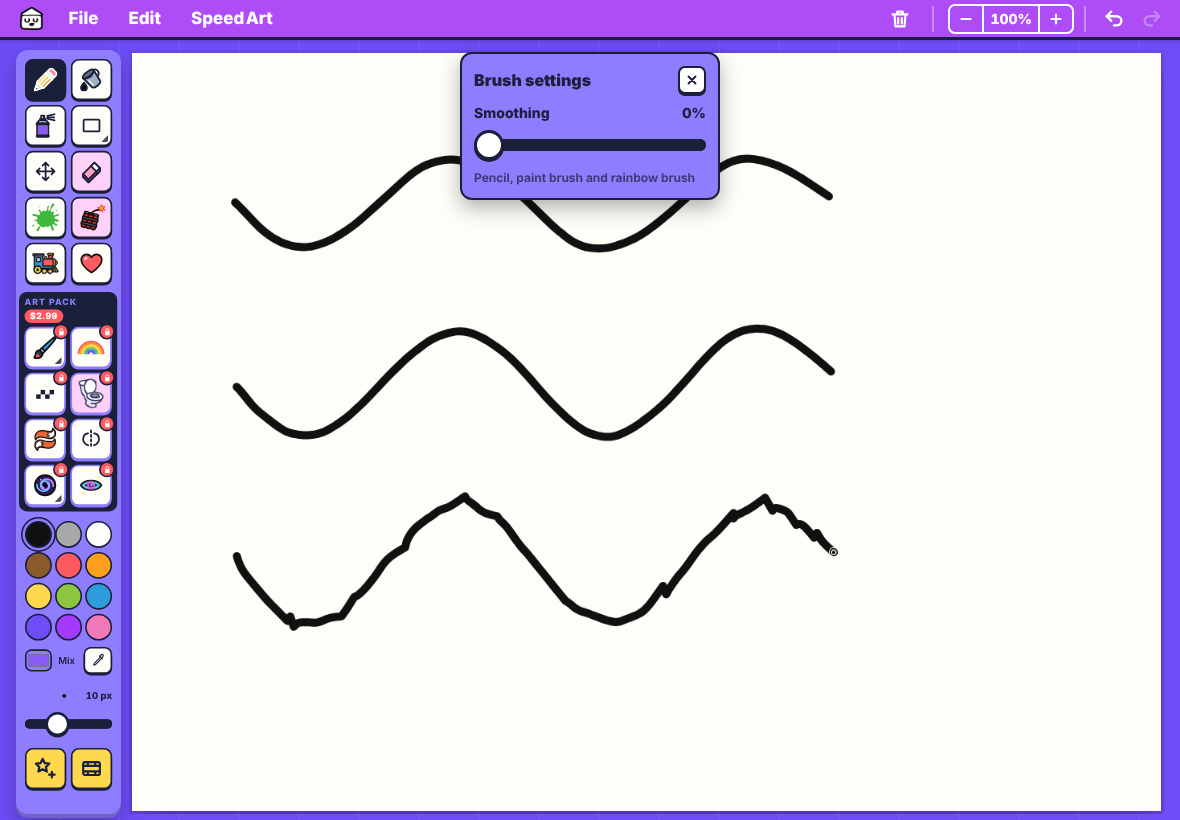
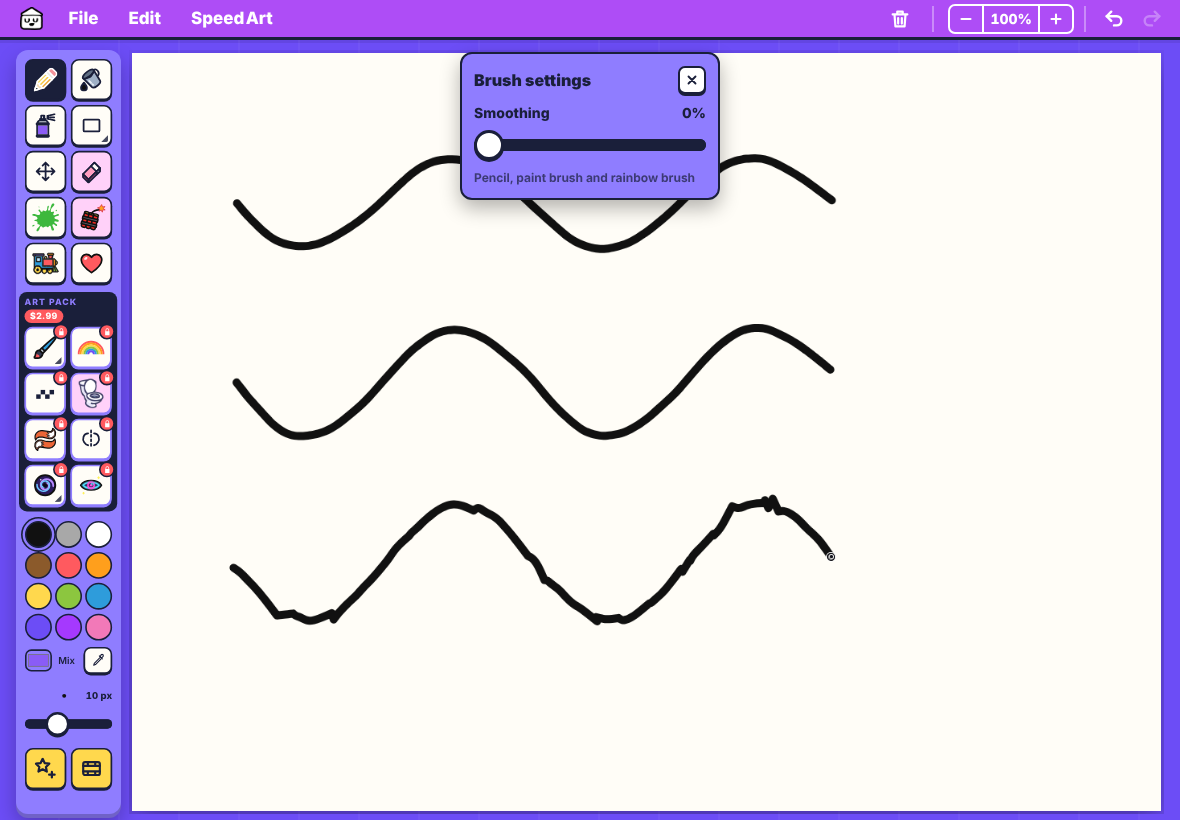
Paint brush: fine grainy dry-brush texture (solid middle, speckled edges), also in speed art
Claude-Session: https://claude.ai/code/session_01QZ4DRegBmAdsTvPSvVEQXu

diff --git a/doodle-clubhouse-app/www/index.html b/doodle-clubhouse-app/www/index.html
@@ -3973,6 +3973,47 @@
     }
     seg(prev, pts[pts.length - 1]);
   }
+  // paint brush texture: a dry, grainy bristle look - solid in the middle, speckled toward the edges.
+  // Two fine grain tiles (made once, at full drawing resolution) bite little flecks out of the stroke.
+  const grainTiles = {};
+  function grainTile(kind){
+    if (grainTiles[kind]) return grainTiles[kind];
+    const S = 384, t = mk(S, S), g = t.getContext('2d');
+    let seed = kind === 'rim' ? 7 : 31; const R = () => { seed = (seed * 16807) % 2147483647; return seed / 2147483647; };
+    const n = kind === 'rim' ? 26000 : 5200;
+    g.lineCap = 'round';
+    for (let i = 0; i < n; i++){
+      const x = R() * S, y = R() * S, a = R() * Math.PI, L = .8 + R() * (kind === 'rim' ? 4.5 : 3), lw = .6 + R() * 1.1;
+      g.globalAlpha = kind === 'rim' ? .45 + R() * .55 : .35 + R() * .5; g.lineWidth = lw; g.strokeStyle = '#000';
+      const dx = Math.cos(a) * L / 2, dy = Math.sin(a) * L / 2;
+      for (const ox of [0, -S, S]) for (const oy of [0, -S, S]){
+        if ((ox && x > 8 && x < S - 8) || (oy && y > 8 && y < S - 8)) continue;
+        g.beginPath(); g.moveTo(x - dx + ox, y - dy + oy); g.lineTo(x + dx + ox, y + dy + oy); g.stroke();
+      }
+    }
+    return grainTiles[kind] = t;
+  }
+  const texK = [null, null];
+  function brushTexDraw(g, pts, w, rb){
+    const cw = g.canvas.width, ch = g.canvas.height;
+    let x0 = 1e9, y0 = 1e9, x1 = -1e9, y1 = -1e9; for (const q of pts){ if (q.x < x0) x0 = q.x; if (q.y < y0) y0 = q.y; if (q.x > x1) x1 = q.x; if (q.y > y1) y1 = q.y; }
+    const pad = w * 1.6 + 4; x0 = Math.max(0, Math.floor(x0 - pad)); y0 = Math.max(0, Math.floor(y0 - pad)); x1 = Math.min(cw, Math.ceil(x1 + pad)); y1 = Math.min(ch, Math.ceil(y1 + pad));
+    if (x1 <= x0 || y1 <= y0) return;
+    const layer = (i, width, kind) => {
+      let k = texK[i]; if (!k || k.width !== cw || k.height !== ch){ k = texK[i] = mk(cw, ch); }
+      const kg = k.getContext('2d'); kg.setTransform(1, 0, 0, 1, 0, 0); kg.globalAlpha = 1; kg.globalCompositeOperation = 'source-over'; kg.clearRect(x0, y0, x1 - x0, y1 - y0);
+      kg.lineCap = 'round'; kg.lineJoin = 'round'; kg.strokeStyle = g.strokeStyle;
+      kg.save(); kg.beginPath(); kg.rect(x0, y0, x1 - x0, y1 - y0); kg.clip(); pencilDraw(kg, pts, width, rb); kg.restore();
+      kg.globalCompositeOperation = 'destination-out'; kg.fillStyle = kg.createPattern(grainTile(kind), 'repeat'); kg.fillRect(x0, y0, x1 - x0, y1 - y0);
+      kg.globalCompositeOperation = 'source-over';
+      return k;
+    };
+    const a = layer(0, w, 'rim'), b = layer(1, w * .6, 'core');
+    g.save(); g.globalAlpha = 1;
+    g.drawImage(a, x0, y0, x1 - x0, y1 - y0, x0, y0, x1 - x0, y1 - y0);
+    g.drawImage(b, x0, y0, x1 - x0, y1 - y0, x0, y0, x1 - x0, y1 - y0);
+    g.restore();
+  }
   function pencilInk(g){
     g.lineCap = 'round'; g.lineJoin = 'round'; g.lineWidth = size; g.strokeStyle = color;
     g.globalAlpha = 1; g.globalCompositeOperation = 'source-over';
@@ -3980,7 +4021,7 @@
   function pencilRender(){
     pencilRaf = 0; const st = pencilS; if (!st) return;
     if (live.width !== W || live.height !== H){ live.width = W; live.height = H; }
-    lctx.clearRect(0, 0, W, H); pencilInk(lctx); pencilDraw(lctx, st.kind === 'brush' ? brushTaper(st.pts) : st.pts, st.base, st.rb);
+    lctx.clearRect(0, 0, W, H); pencilInk(lctx); if (st.kind === 'brush') brushTexDraw(lctx, brushTaper(st.pts), st.base, st.rb); else pencilDraw(lctx, st.pts, st.base, st.rb);
   }
   let pencilSnd = null, pencilT = 0, pencilDir = null;
   // pencil: a steady, even line. With the Apple Pencil (and "lock width" off) it varies only a little with pressure.
@@ -4089,8 +4130,8 @@
       if ([...st.pts, st.raw].every(q => Math.hypot(q.x - o.x, q.y - o.y) < far)){
         const k = st.kind === 'brush' ? (widthLocked ? 1 : (st.raw.pen ? .45 + Math.min(1, st.raw.p || .5) * .9 : 1)) : (o.k || 1);
         st.pts = [{ x: o.x - .4, y: o.y, k }, { x: o.x + .4, y: o.y, k }];
-        pencilInk(ctx); pencilDraw(ctx, st.pts, st.base, st.rb);
-        if (speedStroke){ const L = Math.max(W, H); speedStroke.vec = { pts: st.pts.map(q => [q.x / W, q.y / H, q.k || 1]), col: color, w: st.base / L, rb: st.rb ? { h0: st.rb.h0, rate: st.rb.rate * W } : null }; }
+        pencilInk(ctx); (st.kind === 'brush' ? brushTexDraw : pencilDraw)(ctx, st.pts, st.base, st.rb);
+        if (speedStroke){ const L = Math.max(W, H); speedStroke.vec = { pts: st.pts.map(q => [q.x / W, q.y / H, q.k || 1]), col: color, w: st.base / L, br: st.kind === 'brush' ? 1 : 0, rb: st.rb ? { h0: st.rb.h0, rate: st.rb.rate * W } : null }; }
         return;
       }
     }
@@ -4101,10 +4142,10 @@
     // the brush tapers off as you lift, like a real calligraphy stroke
     if (st.kind === 'brush'){ const n = st.pts.length; for (let i = Math.max(1, n - 9); i < n; i++) st.pts[i].k *= .05 + .95 * Math.sin((n - 1 - i) / 9 * Math.PI / 2); }
     if (st.kind === 'brush') st.pts = brushTaper(st.pts);
-    pencilInk(ctx); pencilDraw(ctx, st.pts, st.base, st.rb);
+    pencilInk(ctx); (st.kind === 'brush' ? brushTexDraw : pencilDraw)(ctx, st.pts, st.base, st.rb);
     if (st.rb){ let d = 0; const sp = pencilSoften(st.pts); for (let i = 1; i < sp.length; i++) d += Math.hypot(sp[i].x - sp[i - 1].x, sp[i].y - sp[i - 1].y); hue = (st.rb.h0 + d * .6) % 360; }   // next stroke carries on through the rainbow
     // speed art redraws this exact curve (no masking), so crossings never show bits of the line early
-    if (speedStroke){ const L = Math.max(W, H); speedStroke.vec = { pts: st.pts.map(q => [q.x / W, q.y / H, q.k || 1]), col: color, w: st.base / L, rb: st.rb ? { h0: st.rb.h0, rate: st.rb.rate * W } : null }; }
+    if (speedStroke){ const L = Math.max(W, H); speedStroke.vec = { pts: st.pts.map(q => [q.x / W, q.y / H, q.k || 1]), col: color, w: st.base / L, br: st.kind === 'brush' ? 1 : 0, rb: st.rb ? { h0: st.rb.h0, rate: st.rb.rate * W } : null }; }
   }
 
 
@@ -7814,7 +7855,7 @@
           const n = Math.min(stk.pts.length, left); left -= n;
           const v = stk.vec, m = Math.max(1, Math.min(v.pts.length, Math.round(n / stk.pts.length * v.pts.length)));
           out.strokeStyle = v.col;
-          pencilDraw(out, v.pts.slice(0, m).map(q => ({ x: q[0] * iw, y: q[1] * ih, k: q[2] || 1 })), Math.max(1, v.w * L2), v.rb ? { h0: v.rb.h0, rate: v.rb.rate / iw } : null);
+          (v.br ? brushTexDraw : pencilDraw)(out, v.pts.slice(0, m).map(q => ({ x: q[0] * iw, y: q[1] * ih, k: q[2] || 1 })), Math.max(1, v.w * L2), v.rb ? { h0: v.rb.h0, rate: v.rb.rate / iw } : null);
         }
         return scratch;
       }

diff --git a/index.html b/index.html
@@ -3973,6 +3973,47 @@
     }
     seg(prev, pts[pts.length - 1]);
   }
+  // paint brush texture: a dry, grainy bristle look - solid in the middle, speckled toward the edges.
+  // Two fine grain tiles (made once, at full drawing resolution) bite little flecks out of the stroke.
+  const grainTiles = {};
+  function grainTile(kind){
+    if (grainTiles[kind]) return grainTiles[kind];
+    const S = 384, t = mk(S, S), g = t.getContext('2d');
+    let seed = kind === 'rim' ? 7 : 31; const R = () => { seed = (seed * 16807) % 2147483647; return seed / 2147483647; };
+    const n = kind === 'rim' ? 26000 : 5200;
+    g.lineCap = 'round';
+    for (let i = 0; i < n; i++){
+      const x = R() * S, y = R() * S, a = R() * Math.PI, L = .8 + R() * (kind === 'rim' ? 4.5 : 3), lw = .6 + R() * 1.1;
+      g.globalAlpha = kind === 'rim' ? .45 + R() * .55 : .35 + R() * .5; g.lineWidth = lw; g.strokeStyle = '#000';
+      const dx = Math.cos(a) * L / 2, dy = Math.sin(a) * L / 2;
+      for (const ox of [0, -S, S]) for (const oy of [0, -S, S]){
+        if ((ox && x > 8 && x < S - 8) || (oy && y > 8 && y < S - 8)) continue;
+        g.beginPath(); g.moveTo(x - dx + ox, y - dy + oy); g.lineTo(x + dx + ox, y + dy + oy); g.stroke();
+      }
+    }
+    return grainTiles[kind] = t;
+  }
+  const texK = [null, null];
+  function brushTexDraw(g, pts, w, rb){
+    const cw = g.canvas.width, ch = g.canvas.height;
+    let x0 = 1e9, y0 = 1e9, x1 = -1e9, y1 = -1e9; for (const q of pts){ if (q.x < x0) x0 = q.x; if (q.y < y0) y0 = q.y; if (q.x > x1) x1 = q.x; if (q.y > y1) y1 = q.y; }
+    const pad = w * 1.6 + 4; x0 = Math.max(0, Math.floor(x0 - pad)); y0 = Math.max(0, Math.floor(y0 - pad)); x1 = Math.min(cw, Math.ceil(x1 + pad)); y1 = Math.min(ch, Math.ceil(y1 + pad));
+    if (x1 <= x0 || y1 <= y0) return;
+    const layer = (i, width, kind) => {
+      let k = texK[i]; if (!k || k.width !== cw || k.height !== ch){ k = texK[i] = mk(cw, ch); }
+      const kg = k.getContext('2d'); kg.setTransform(1, 0, 0, 1, 0, 0); kg.globalAlpha = 1; kg.globalCompositeOperation = 'source-over'; kg.clearRect(x0, y0, x1 - x0, y1 - y0);
+      kg.lineCap = 'round'; kg.lineJoin = 'round'; kg.strokeStyle = g.strokeStyle;
+      kg.save(); kg.beginPath(); kg.rect(x0, y0, x1 - x0, y1 - y0); kg.clip(); pencilDraw(kg, pts, width, rb); kg.restore();
+      kg.globalCompositeOperation = 'destination-out'; kg.fillStyle = kg.createPattern(grainTile(kind), 'repeat'); kg.fillRect(x0, y0, x1 - x0, y1 - y0);
+      kg.globalCompositeOperation = 'source-over';
+      return k;
+    };
+    const a = layer(0, w, 'rim'), b = layer(1, w * .6, 'core');
+    g.save(); g.globalAlpha = 1;
+    g.drawImage(a, x0, y0, x1 - x0, y1 - y0, x0, y0, x1 - x0, y1 - y0);
+    g.drawImage(b, x0, y0, x1 - x0, y1 - y0, x0, y0, x1 - x0, y1 - y0);
+    g.restore();
+  }
   function pencilInk(g){
     g.lineCap = 'round'; g.lineJoin = 'round'; g.lineWidth = size; g.strokeStyle = color;
     g.globalAlpha = 1; g.globalCompositeOperation = 'source-over';
@@ -3980,7 +4021,7 @@
   function pencilRender(){
     pencilRaf = 0; const st = pencilS; if (!st) return;
     if (live.width !== W || live.height !== H){ live.width = W; live.height = H; }
-    lctx.clearRect(0, 0, W, H); pencilInk(lctx); pencilDraw(lctx, st.kind === 'brush' ? brushTaper(st.pts) : st.pts, st.base, st.rb);
+    lctx.clearRect(0, 0, W, H); pencilInk(lctx); if (st.kind === 'brush') brushTexDraw(lctx, brushTaper(st.pts), st.base, st.rb); else pencilDraw(lctx, st.pts, st.base, st.rb);
   }
   let pencilSnd = null, pencilT = 0, pencilDir = null;
   // pencil: a steady, even line. With the Apple Pencil (and "lock width" off) it varies only a little with pressure.
@@ -4089,8 +4130,8 @@
       if ([...st.pts, st.raw].every(q => Math.hypot(q.x - o.x, q.y - o.y) < far)){
         const k = st.kind === 'brush' ? (widthLocked ? 1 : (st.raw.pen ? .45 + Math.min(1, st.raw.p || .5) * .9 : 1)) : (o.k || 1);
         st.pts = [{ x: o.x - .4, y: o.y, k }, { x: o.x + .4, y: o.y, k }];
-        pencilInk(ctx); pencilDraw(ctx, st.pts, st.base, st.rb);
-        if (speedStroke){ const L = Math.max(W, H); speedStroke.vec = { pts: st.pts.map(q => [q.x / W, q.y / H, q.k || 1]), col: color, w: st.base / L, rb: st.rb ? { h0: st.rb.h0, rate: st.rb.rate * W } : null }; }
+        pencilInk(ctx); (st.kind === 'brush' ? brushTexDraw : pencilDraw)(ctx, st.pts, st.base, st.rb);
+        if (speedStroke){ const L = Math.max(W, H); speedStroke.vec = { pts: st.pts.map(q => [q.x / W, q.y / H, q.k || 1]), col: color, w: st.base / L, br: st.kind === 'brush' ? 1 : 0, rb: st.rb ? { h0: st.rb.h0, rate: st.rb.rate * W } : null }; }
         return;
       }
     }
@@ -4101,10 +4142,10 @@
     // the brush tapers off as you lift, like a real calligraphy stroke
     if (st.kind === 'brush'){ const n = st.pts.length; for (let i = Math.max(1, n - 9); i < n; i++) st.pts[i].k *= .05 + .95 * Math.sin((n - 1 - i) / 9 * Math.PI / 2); }
     if (st.kind === 'brush') st.pts = brushTaper(st.pts);
-    pencilInk(ctx); pencilDraw(ctx, st.pts, st.base, st.rb);
+    pencilInk(ctx); (st.kind === 'brush' ? brushTexDraw : pencilDraw)(ctx, st.pts, st.base, st.rb);
     if (st.rb){ let d = 0; const sp = pencilSoften(st.pts); for (let i = 1; i < sp.length; i++) d += Math.hypot(sp[i].x - sp[i - 1].x, sp[i].y - sp[i - 1].y); hue = (st.rb.h0 + d * .6) % 360; }   // next stroke carries on through the rainbow
     // speed art redraws this exact curve (no masking), so crossings never show bits of the line early
-    if (speedStroke){ const L = Math.max(W, H); speedStroke.vec = { pts: st.pts.map(q => [q.x / W, q.y / H, q.k || 1]), col: color, w: st.base / L, rb: st.rb ? { h0: st.rb.h0, rate: st.rb.rate * W } : null }; }
+    if (speedStroke){ const L = Math.max(W, H); speedStroke.vec = { pts: st.pts.map(q => [q.x / W, q.y / H, q.k || 1]), col: color, w: st.base / L, br: st.kind === 'brush' ? 1 : 0, rb: st.rb ? { h0: st.rb.h0, rate: st.rb.rate * W } : null }; }
   }
 
 
@@ -7814,7 +7855,7 @@
           const n = Math.min(stk.pts.length, left); left -= n;
           const v = stk.vec, m = Math.max(1, Math.min(v.pts.length, Math.round(n / stk.pts.length * v.pts.length)));
           out.strokeStyle = v.col;
-          pencilDraw(out, v.pts.slice(0, m).map(q => ({ x: q[0] * iw, y: q[1] * ih, k: q[2] || 1 })), Math.max(1, v.w * L2), v.rb ? { h0: v.rb.h0, rate: v.rb.rate / iw } : null);
+          (v.br ? brushTexDraw : pencilDraw)(out, v.pts.slice(0, m).map(q => ({ x: q[0] * iw, y: q[1] * ih, k: q[2] || 1 })), Math.max(1, v.w * L2), v.rb ? { h0: v.rb.h0, rate: v.rb.rate / iw } : null);
         }
         return scratch;
       }
